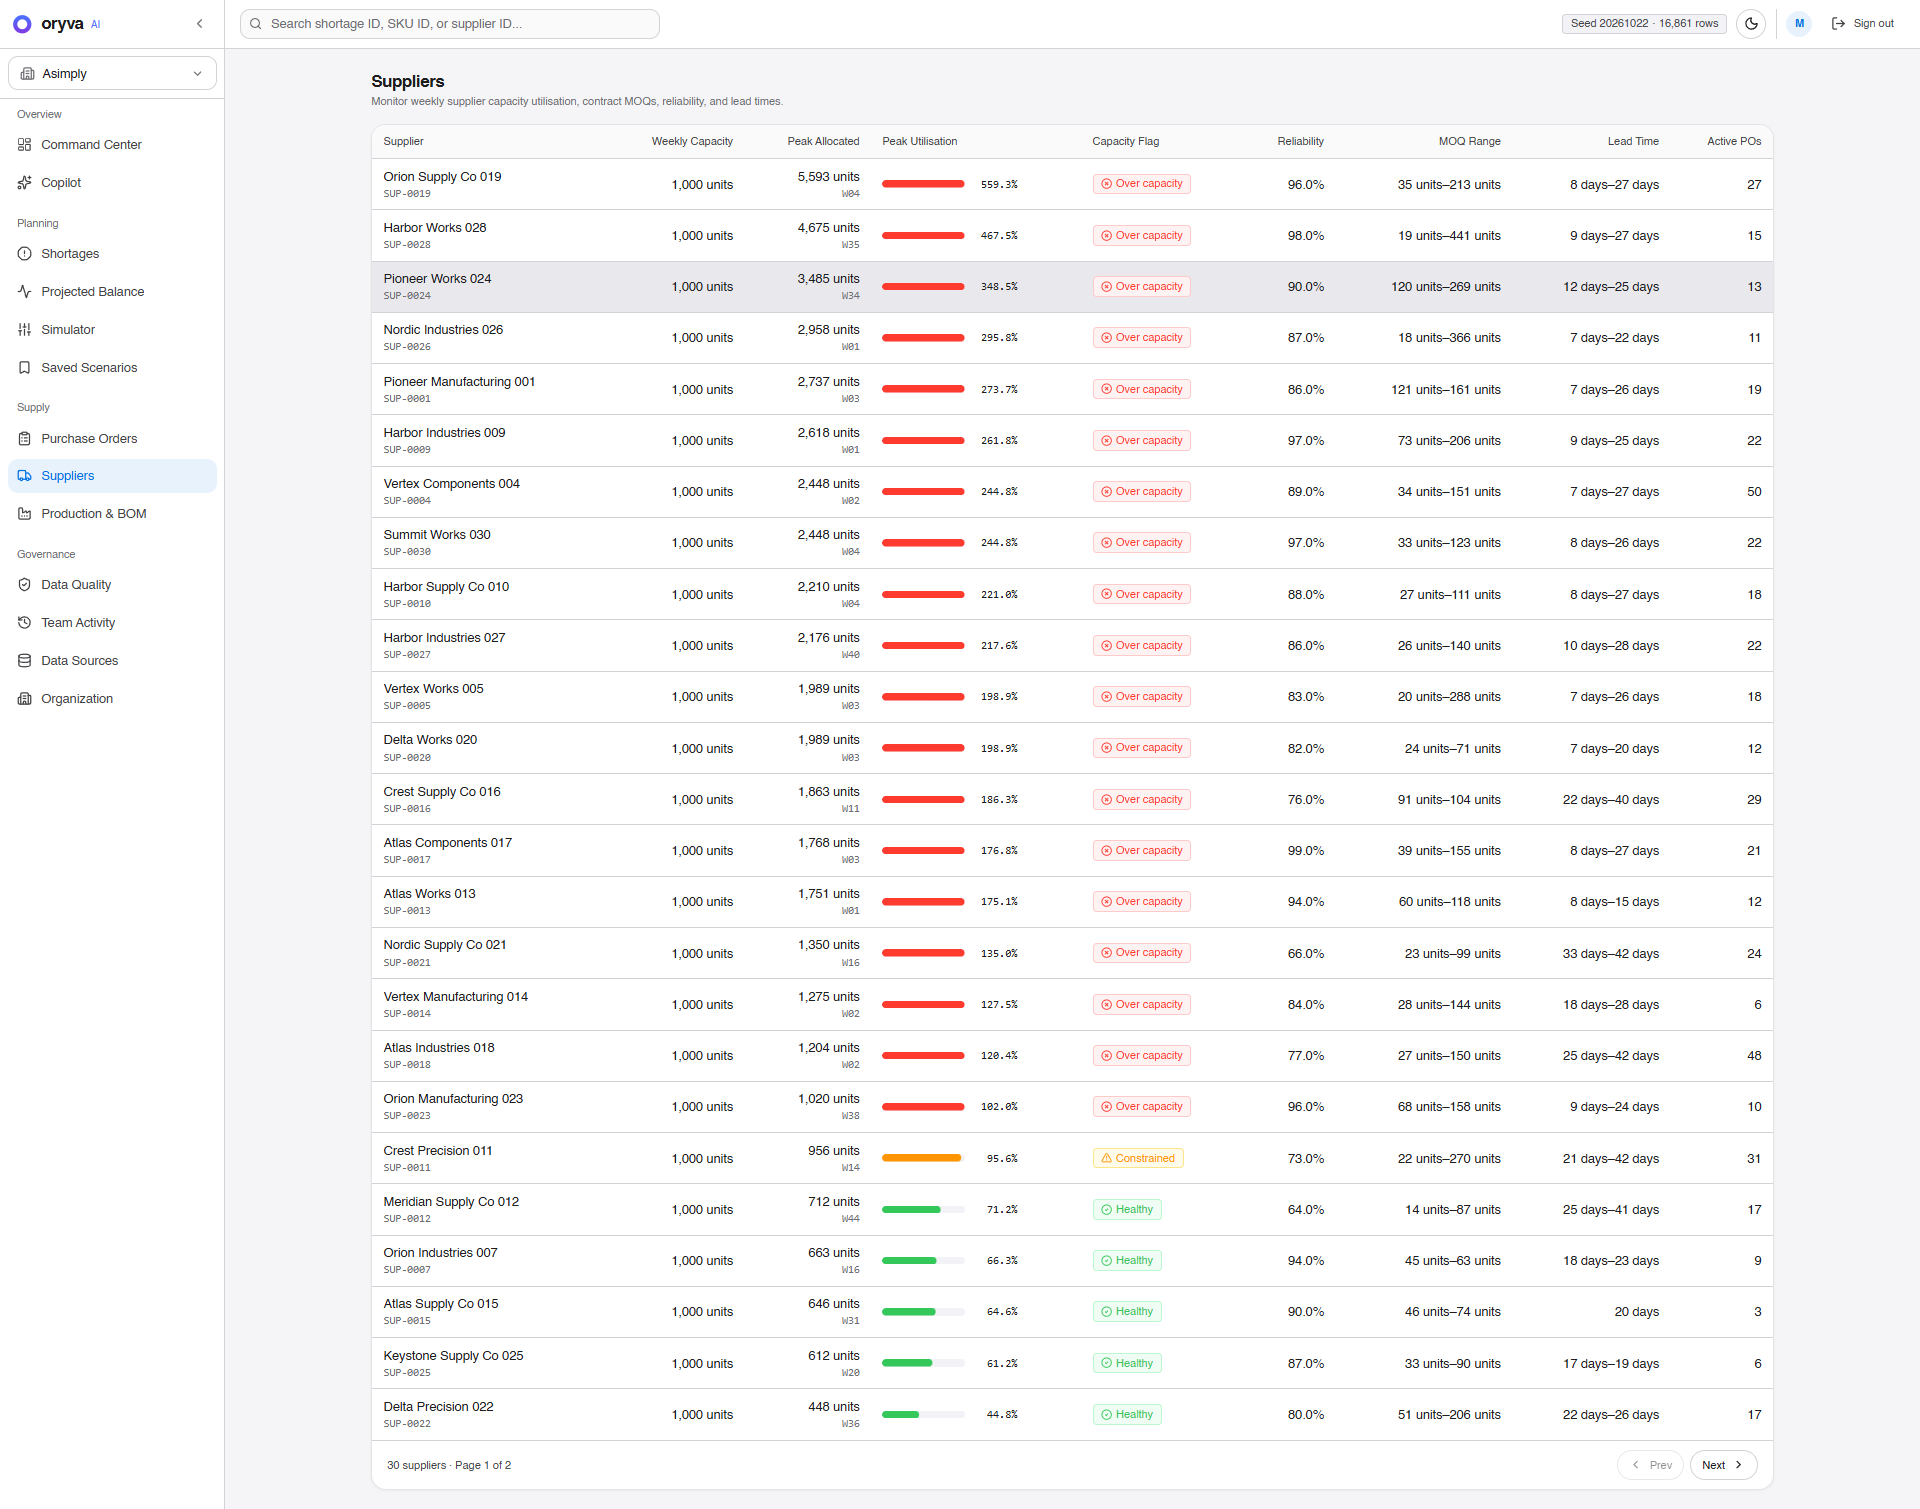
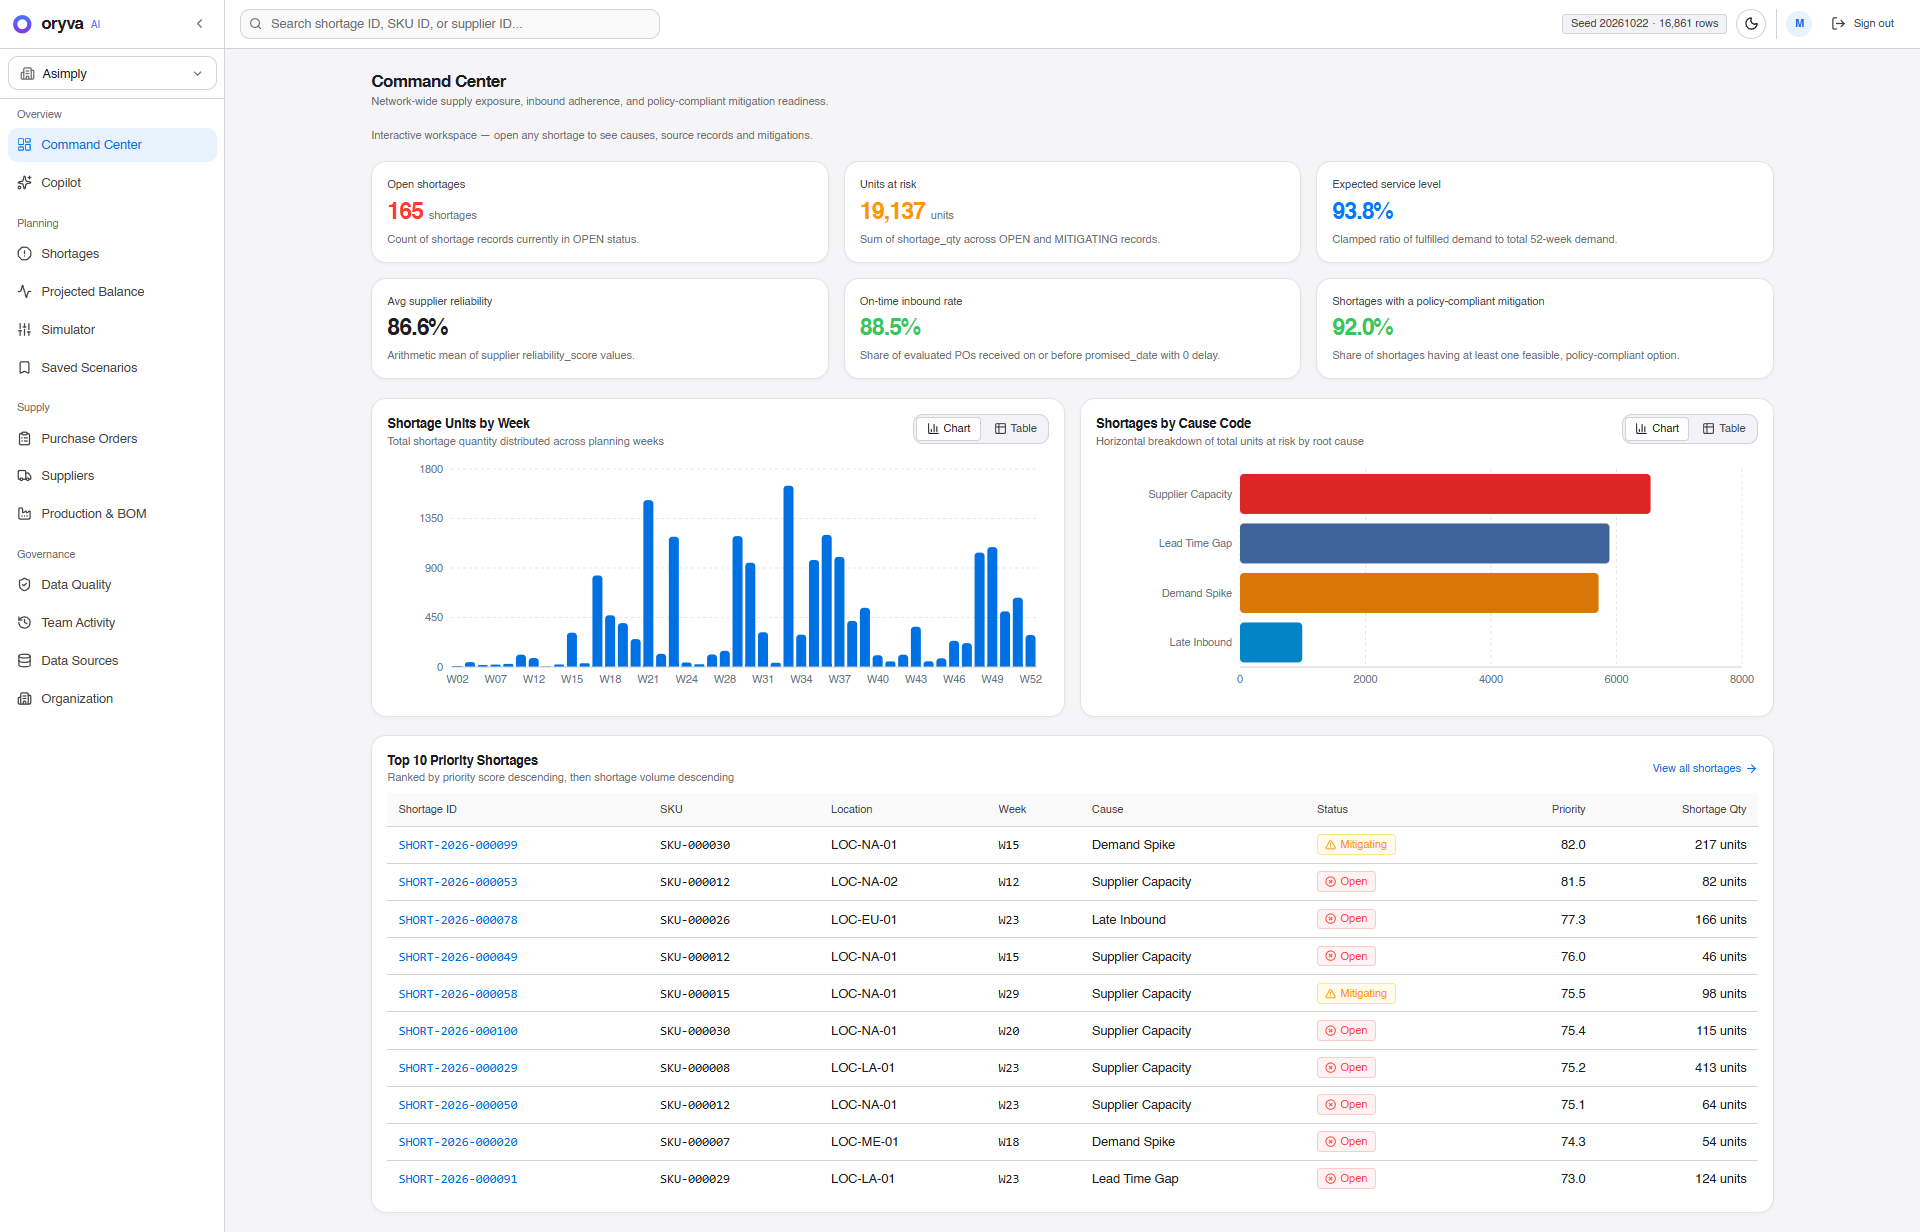
Refactor code structure for improved readability and maintainability

diff --git a/README.md b/README.md
@@ -23,14 +23,14 @@ Network-wide risk indicators, weekly shortage trends, root-cause breakdown and p
 
 <table>
 <tr><td width="50%"><b>Projected Available Balance</b></td><td width="50%"><b>What-if Scenario Simulator</b></td></tr>
-<tr><td><a href="docs/screenshots/projected-balance.png"><img src="docs/screenshots/projected-balance.png" alt="Weekly projected balance and reconciliation" width="100%"></a></td><td><a href="docs/screenshots/scenario-simulator.png"><img src="docs/screenshots/scenario-simulator.png" alt="Scenario parameters and baseline comparison" width="100%"></a></td></tr>
+<tr><td><a href="docs/screenshots/project-balanced.png"><img src="docs/screenshots/project-balanced.png" alt="Weekly projected balance and reconciliation" width="100%"></a></td><td><a href="docs/screenshots/simulator.png"><img src="docs/screenshots/simulator.png" alt="Scenario parameters and baseline comparison" width="100%"></a></td></tr>
 <tr><td>Weekly inventory projections and arithmetic reconciliation.</td><td>Demand, inbound delays, capacity and mitigation comparisons.</td></tr>
 </table>
 
 <details>
 <summary><b>Supplier Capacity &amp; Risk — view screenshot</b></summary>
 
-![Supplier Capacity](docs/screenshots/suppliers.png)
+![Supplier Capacity](docs/screenshots/supliers.png)
 
 Weekly capacity, peak allocation, utilization, reliability, minimum order quantities and lead times.
 
@@ -274,7 +274,10 @@ Run these commands in your environment to verify the current checkout. A product
 ├── data/starter/            # Starter exports
 ├── data/full/               # Full-scale exports and evidence
 ├── public/data/             # Bundled application data
-├── docs/                   # Data dictionary and provenance
+├── docs/
+│   ├── screenshots/        # Product screenshots
+│   ├── DATA_DICTIONARY.md
+│   └── SOURCE_MANIFEST.md
 └── supabase/schema.sql      # Application database schema
 ```
 
